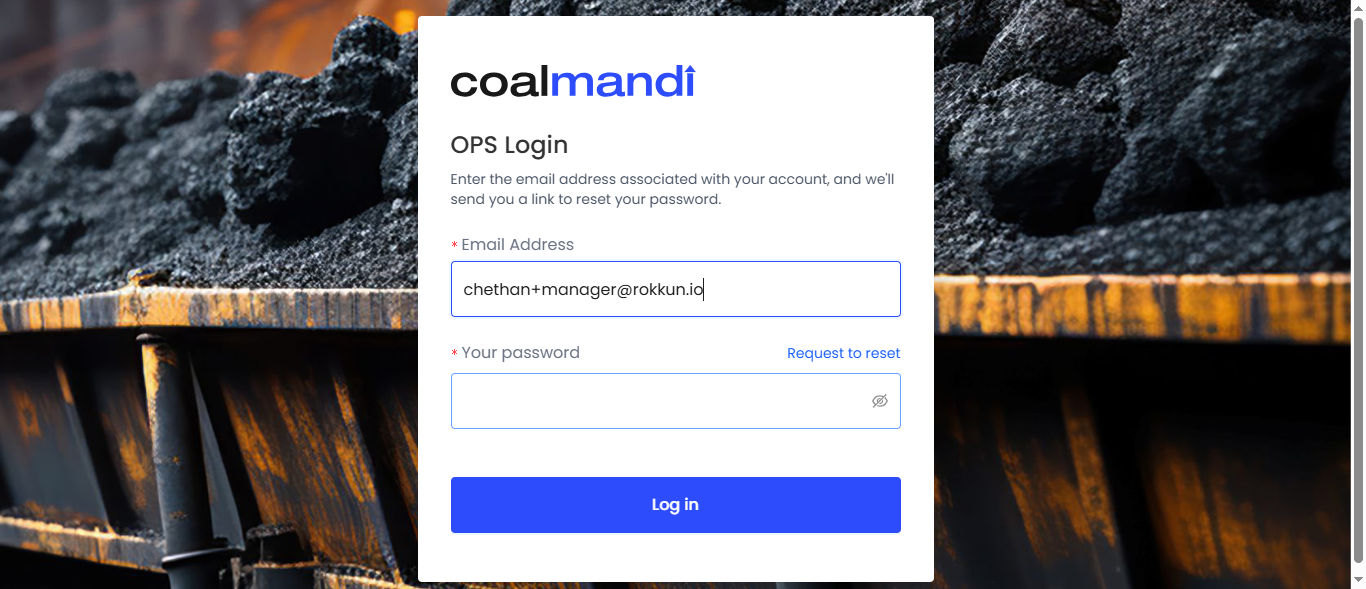
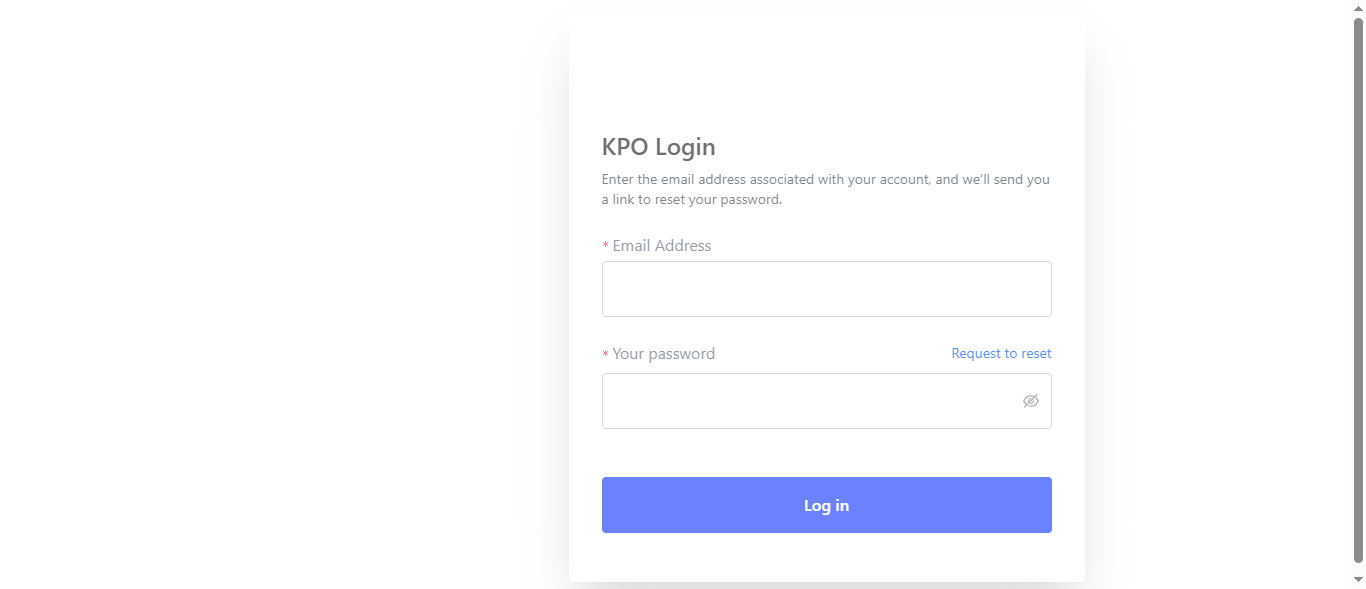
kpo code changes

diff --git a/test-output/index.html b/test-output/index.html
@@ -50,7 +50,7 @@
               <ul>
                 <li>
                   <a href="#" panel-name="test-xml-Default_suite" class="navigator-link ">
-                    <span>testng-customsuite.xml</span>
+                    <span>C:\Users\User\AppData\Local\Temp\testng-eclipse--2092210658\testng-customsuite.xml</span>
                   </a> <!-- navigator-link  -->
                 </li>
                 <li>
@@ -103,7 +103,7 @@
                     <div class="method-list-content passed suite-Default_suite">
                       <span>
                         <img src="passed.png" width="3%"/>
-                        <a href="#" panel-name="suite-Default_suite" title="kpoTestcaseExecution.kpoteammgmtExecutionclass" class="method navigator-link" hash-for-method="kpoupdateteammanagement">kpoupdateteammanagement</a> <!-- method navigator-link -->
+                        <a href="#" panel-name="suite-Default_suite" title="kpoTestcaseExecution.kposigninExecustionclass" class="method navigator-link" hash-for-method="kposignin">kposignin</a> <!-- method navigator-link -->
                       </span>
                       <br/>
                     </div> <!-- method-list-content passed suite-Default_suite -->
@@ -121,14 +121,14 @@
           <div class="suite-Default_suite-class-passed">
             <div class="main-panel-header rounded-window-top">
               <img src="passed.png"/>
-              <span class="class-name">kpoTestcaseExecution.kpoteammgmtExecutionclass</span>
+              <span class="class-name">kpoTestcaseExecution.kposigninExecustionclass</span>
             </div> <!-- main-panel-header rounded-window-top -->
             <div class="main-panel-content rounded-window-bottom">
               <div class="method">
                 <div class="method-content">
-                  <a name="kpoupdateteammanagement">
-                  </a> <!-- kpoupdateteammanagement -->
-                  <span class="method-name">kpoupdateteammanagement</span>
+                  <a name="kposignin">
+                  </a> <!-- kposignin -->
+                  <span class="method-name">kposignin</span>
                 </div> <!-- method-content -->
               </div> <!-- method -->
             </div> <!-- main-panel-content rounded-window-bottom -->
@@ -136,7 +136,7 @@
         </div> <!-- panel Default_suite -->
         <div panel-name="test-xml-Default_suite" class="panel">
           <div class="main-panel-header rounded-window-top">
-            <span class="header-content">/tmp/testng-eclipse--889972866/testng-customsuite.xml</span>
+            <span class="header-content">C:\Users\User\AppData\Local\Temp\testng-eclipse--2092210658\testng-customsuite.xml</span>
           </div> <!-- main-panel-header rounded-window-top -->
           <div class="main-panel-content rounded-window-bottom">
             <pre>
@@ -145,7 +145,7 @@
 &lt;suite name=&quot;Default suite&quot; guice-stage=&quot;DEVELOPMENT&quot;&gt;
   &lt;test thread-count=&quot;5&quot; name=&quot;Default test&quot; verbose=&quot;2&quot;&gt;
     &lt;classes&gt;
-      &lt;class name=&quot;kpoTestcaseExecution.kpoteammgmtExecutionclass&quot;/&gt;
+      &lt;class name=&quot;kpoTestcaseExecution.kposigninExecustionclass&quot;/&gt;
     &lt;/classes&gt;
   &lt;/test&gt; &lt;!-- Default test --&gt;
 &lt;/suite&gt; &lt;!-- Default suite --&gt;
@@ -187,14 +187,14 @@ data.addColumn('string', 'Class');
 data.addColumn('number', 'Time (ms)');
 data.addRows(1);
 data.setCell(0, 0, 0)
-data.setCell(0, 1, 'kpoupdateteammanagement')
-data.setCell(0, 2, 'kpoTestcaseExecution.kpoteammgmtExecutionclass')
-data.setCell(0, 3, 11650);
+data.setCell(0, 1, 'kposignin')
+data.setCell(0, 2, 'kpoTestcaseExecution.kposigninExecustionclass')
+data.setCell(0, 3, 2868);
 window.suiteTableData['Default_suite']= { tableData: data, tableDiv: 'times-div-Default_suite'}
 return data;
 }
               </script>
-              <span class="suite-total-time">Total running time: 11 seconds</span>
+              <span class="suite-total-time">Total running time: 2 seconds</span>
               <div id="times-div-Default_suite">
               </div> <!-- times-div-Default_suite -->
             </div> <!-- times-div -->
@@ -209,16 +209,9 @@ return data;
         </div> <!-- panel -->
         <div panel-name="ignored-methods-Default_suite" class="panel">
           <div class="main-panel-header rounded-window-top">
-            <span class="header-content">1 ignored method</span>
+            <span class="header-content">0 ignored methods</span>
           </div> <!-- main-panel-header rounded-window-top -->
           <div class="main-panel-content rounded-window-bottom">
-            <div class="ignored-class-div">
-              <span class="ignored-class-name">kpoTestcaseExecution.kpoteammgmtExecutionclass</span>
-              <div class="ignored-methods-div">
-                <span class="ignored-method-name">kpocreateteammanagement</span>
-                <br/>
-              </div> <!-- ignored-methods-div -->
-            </div> <!-- ignored-class-div -->
           </div> <!-- main-panel-content rounded-window-bottom -->
         </div> <!-- panel -->
         <div panel-name="chronological-Default_suite" class="panel">
@@ -227,18 +220,18 @@ return data;
           </div> <!-- main-panel-header rounded-window-top -->
           <div class="main-panel-content rounded-window-bottom">
             <div class="chronological-class">
-              <div class="chronological-class-name">kpoTestcaseExecution.kpoteammgmtExecutionclass</div> <!-- chronological-class-name -->
+              <div class="chronological-class-name">kpoTestcaseExecution.kposigninExecustionclass</div> <!-- chronological-class-name -->
               <div class="configuration-method before">
                 <span class="method-name">setup</span>
                 <span class="method-start">0 ms</span>
               </div> <!-- configuration-method before -->
               <div class="test-method">
-                <span class="method-name">kpoupdateteammanagement</span>
-                <span class="method-start">5385 ms</span>
+                <span class="method-name">kposignin</span>
+                <span class="method-start">21198 ms</span>
               </div> <!-- test-method -->
               <div class="configuration-method after">
-                <span class="method-name">tear([TestResult name=kpoupdateteammanagement status=SUCCESS method=kpoteammgmtExecutionclass.kpoupdatete...)</span>
-                <span class="method-start">17043 ms</span>
+                <span class="method-name">tear([TestResult name=kposignin status=SUCCESS method=kposigninExecustionclass.kposignin()[pri:0, instanc...)</span>
+                <span class="method-start">24072 ms</span>
               </div> <!-- configuration-method after -->
           </div> <!-- main-panel-content rounded-window-bottom -->
         </div> <!-- panel -->

diff --git a/test-output/emailable-report.html b/test-output/emailable-report.html
@@ -9,10 +9,10 @@
 <table>
 <tr><th>Test</th><th># Passed</th><th># Skipped</th><th># Retried</th><th># Failed</th><th>Time (ms)</th><th>Included Groups</th><th>Excluded Groups</th></tr>
 <tr><th colspan="8">Default suite</th></tr>
-<tr><td><a href="#t0">Default test</a></td><td class="num">1</td><td class="num">0</td><td class="num">0</td><td class="num">0</td><td class="num">17,180</td><td></td><td></td></tr>
+<tr><td><a href="#t0">Default test</a></td><td class="num">1</td><td class="num">0</td><td class="num">0</td><td class="num">0</td><td class="num">24,440</td><td></td><td></td></tr>
 </table>
-<table id='summary'><thead><tr><th>Class</th><th>Method</th><th>Start</th><th>Time (ms)</th></tr></thead><tbody><tr><th colspan="4">Default suite</th></tr></tbody><tbody id="t0"><tr><th colspan="4">Default test &#8212; passed</th></tr><tr class="passedeven"><td rowspan="1">kpoTestcaseExecution.kpoteammgmtExecutionclass</td><td><a href="#m0">kpoupdateteammanagement</a></td><td rowspan="1">1758543257017</td><td rowspan="1">11650</td></tr></tbody>
+<table id='summary'><thead><tr><th>Class</th><th>Method</th><th>Start</th><th>Time (ms)</th></tr></thead><tbody><tr><th colspan="4">Default suite</th></tr></tbody><tbody id="t0"><tr><th colspan="4">Default test &#8212; passed</th></tr><tr class="passedeven"><td rowspan="1">kpoTestcaseExecution.kposigninExecustionclass</td><td><a href="#m0">kposignin</a></td><td rowspan="1">1761411943112</td><td rowspan="1">2868</td></tr></tbody>
 </table>
-<h2>Default test</h2><h3 id="m0">kpoTestcaseExecution.kpoteammgmtExecutionclass#kpoupdateteammanagement</h3><table class="result"><tr><th class="invisible"/></tr></table><p class="totop"><a href="#summary">back to summary</a></p>
+<h2>Default test</h2><h3 id="m0">kpoTestcaseExecution.kposigninExecustionclass#kposignin</h3><table class="result"><tr><th class="invisible"/></tr></table><p class="totop"><a href="#summary">back to summary</a></p>
 </body>
 </html>

diff --git a/test-output/Default suite/Default test.html b/test-output/Default suite/Default test.html
@@ -57,9 +57,9 @@ function toggleAllBoxes() {
 <tr>
 <td>Tests passed/Failed/Skipped:</td><td>1/0/0</td>
 </tr><tr>
-<td>Started on:</td><td>Mon Sep 22 17:44:11 IST 2025</td>
+<td>Started on:</td><td>Sat Oct 25 22:35:21 IST 2025</td>
 </tr>
-<tr><td>Total time:</td><td>17 seconds (17180 ms)</td>
+<tr><td>Total time:</td><td>24 seconds (24440 ms)</td>
 </tr><tr>
 <td>Included groups:</td><td></td>
 </tr><tr>
@@ -76,10 +76,10 @@ function toggleAllBoxes() {
 <td><b>Instance</b></td>
 </tr>
 <tr>
-<td title='kpoTestcaseExecution.kpoteammgmtExecutionclass.kpoupdateteammanagement()'><b>kpoupdateteammanagement</b><br>Test class: kpoTestcaseExecution.kpoteammgmtExecutionclass</td>
+<td title='kpoTestcaseExecution.kposigninExecustionclass.kposignin()'><b>kposignin</b><br>Test class: kpoTestcaseExecution.kposigninExecustionclass</td>
 <td></td>
-<td>11</td>
-<td>kpoTestcaseExecution.kpoteammgmtExecutionclass@47af7f3d</td></tr>
+<td>2</td>
+<td>kpoTestcaseExecution.kposigninExecustionclass@43c1b556</td></tr>
 </table><p>
 </body>
 </html>

diff --git a/src/test/java/kpopageobject/kposigninpage.java b/src/test/java/kpopageobject/kposigninpage.java
@@ -25,7 +25,7 @@ public class kposigninpage extends kpoBasicpage {
 	@FindBy(xpath="(//button[@type='submit'])[1]") 
 	private WebElement btnLogin;
 	
-	public void kposigninpage(String email, String pwd)
+	public void kposigninpage(String email, String pwd) throws InterruptedException
 	{
 		// enter a emailID
 		waitforElement(emailFieldLocator);
@@ -38,5 +38,7 @@ public class kposigninpage extends kpoBasicpage {
 		// click on signin button
 		waitforElement(btnLogin);
 		javascriptclick(btnLogin);
+		
+		Thread.sleep(2000);
 	}
 }

diff --git a/src/test/java/kpoTestcaseExecution/kposigninExecustionclass.java b/src/test/java/kpoTestcaseExecution/kposigninExecustionclass.java
@@ -8,10 +8,10 @@ import kpopageobject.kposigninpage;
 public class kposigninExecustionclass extends kpoBaseclass {
 	
 	@Test
-	public void opssignin()
+	public void kposignin() throws InterruptedException
 	{
 		opssign = new kposigninpage(driver);
-		opssign.kposigninpage(prop.getProperty("opsemail"), prop.getProperty("password"));
+		opssign.kposigninpage(prop.getProperty("kpoemail"), prop.getProperty("password"));
 	}
 
 }
